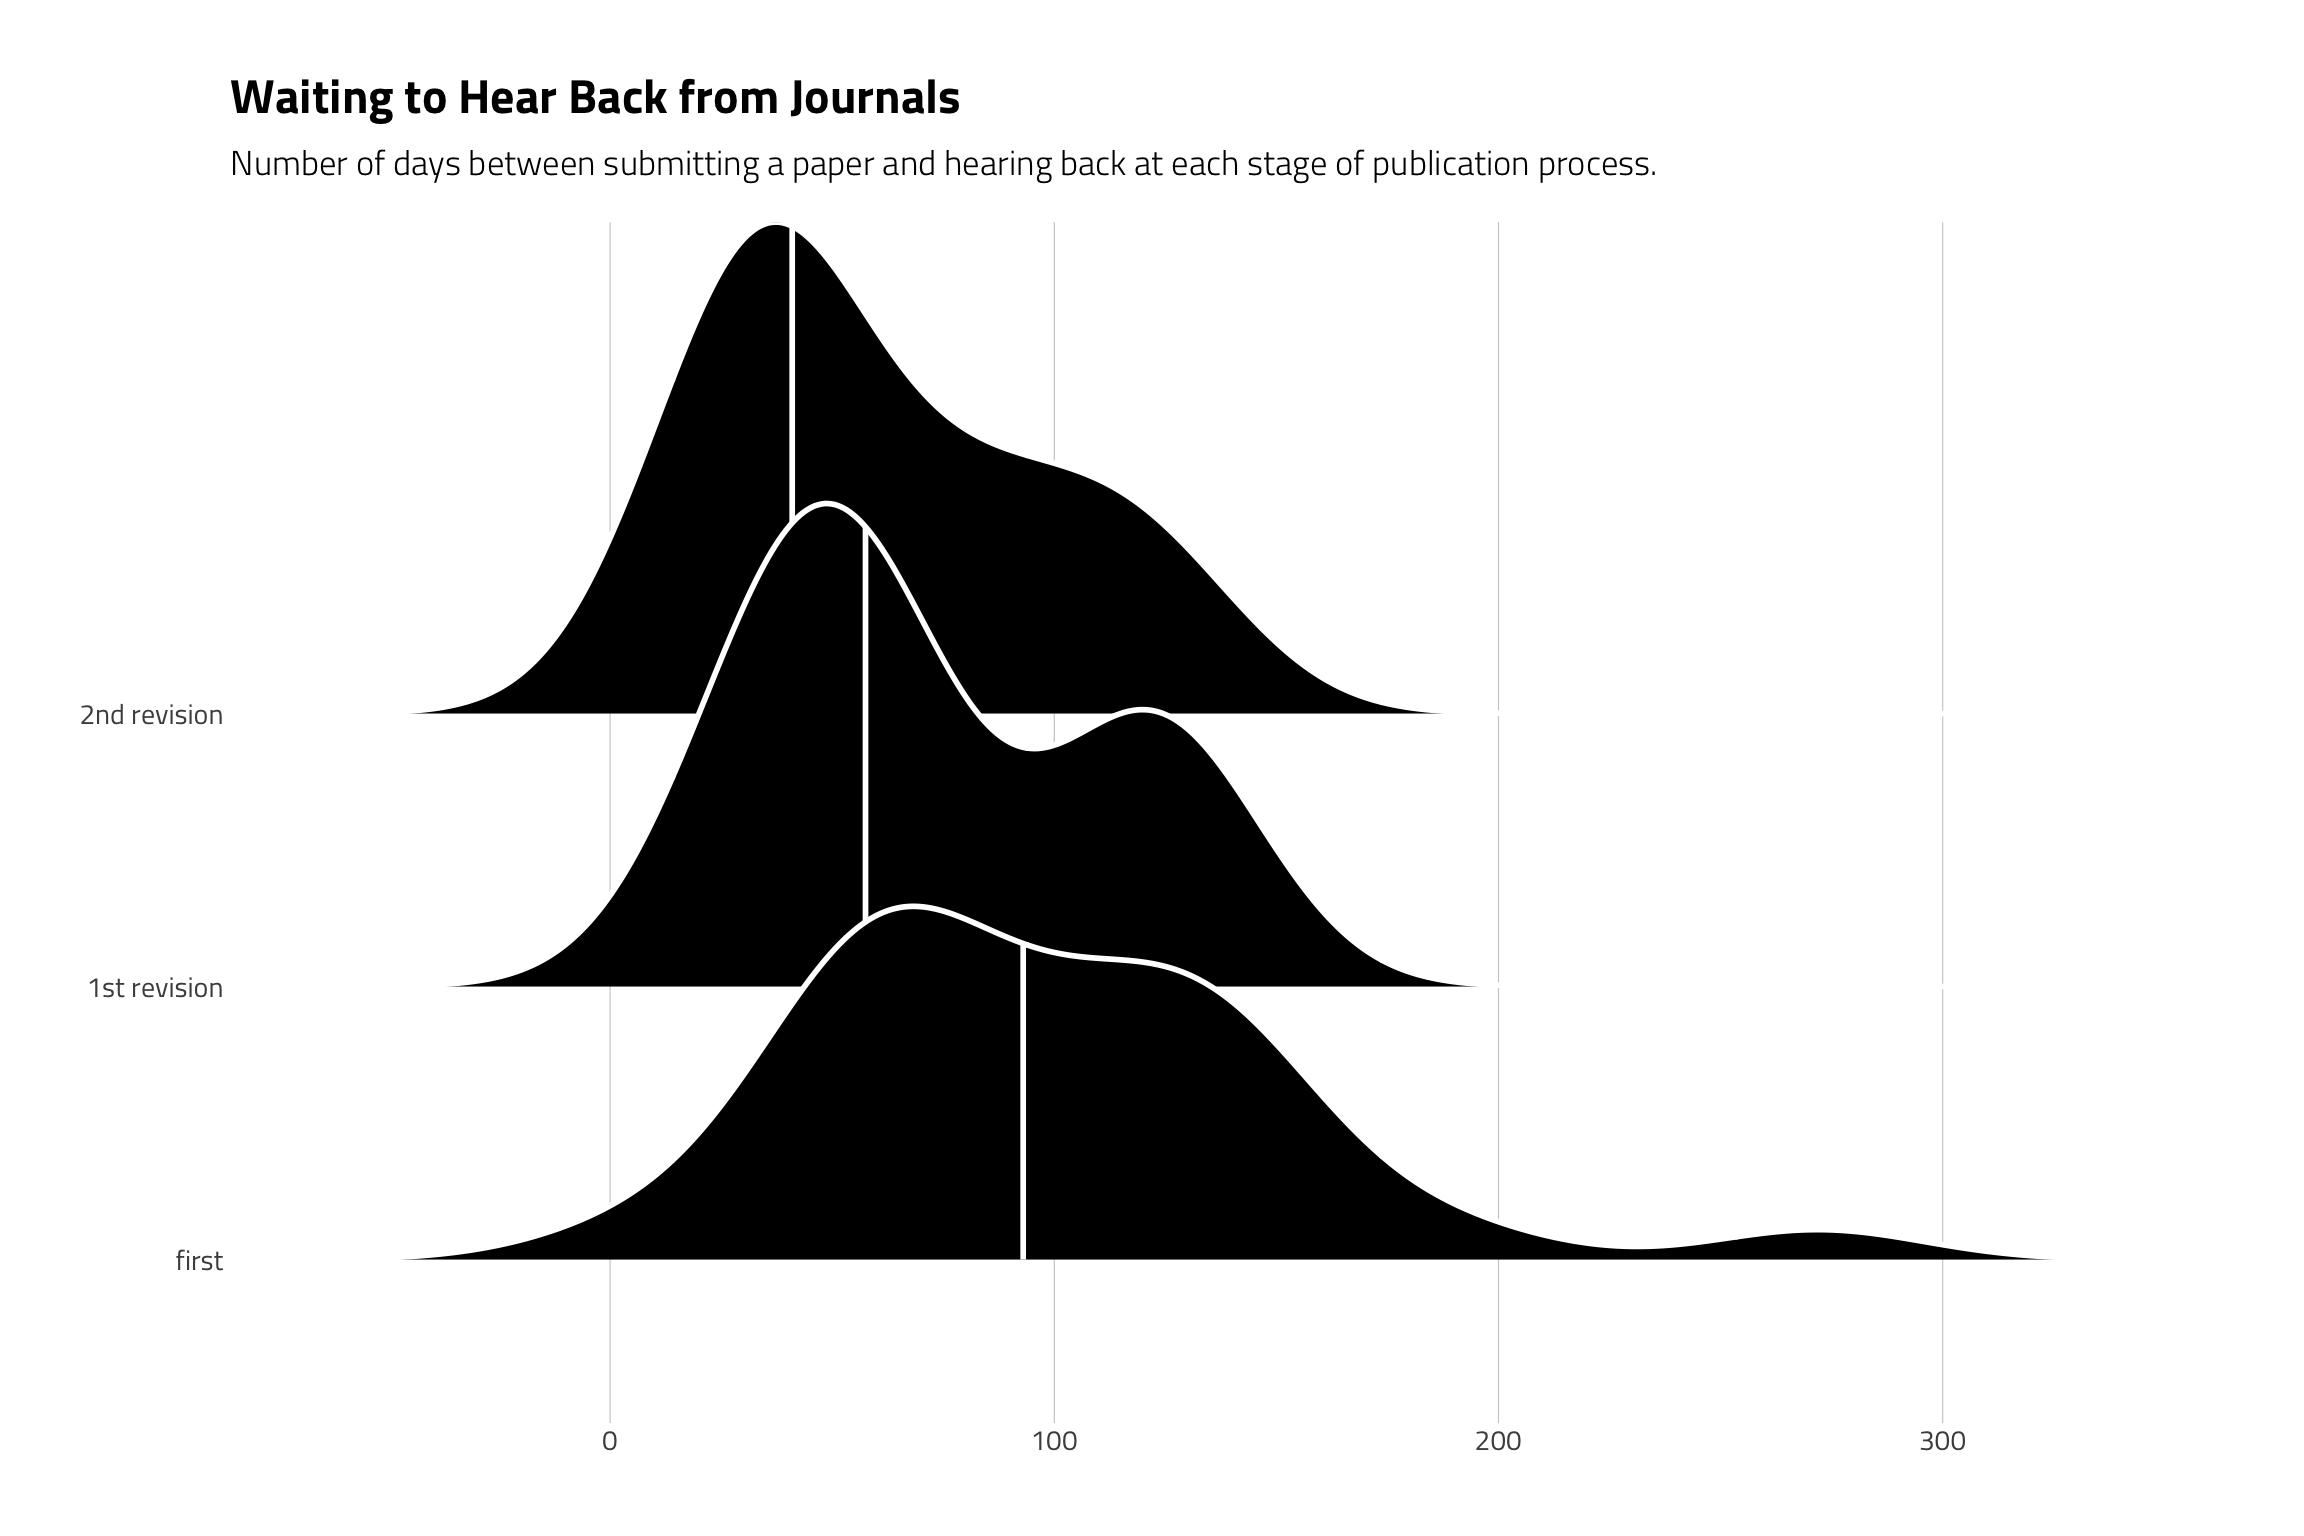
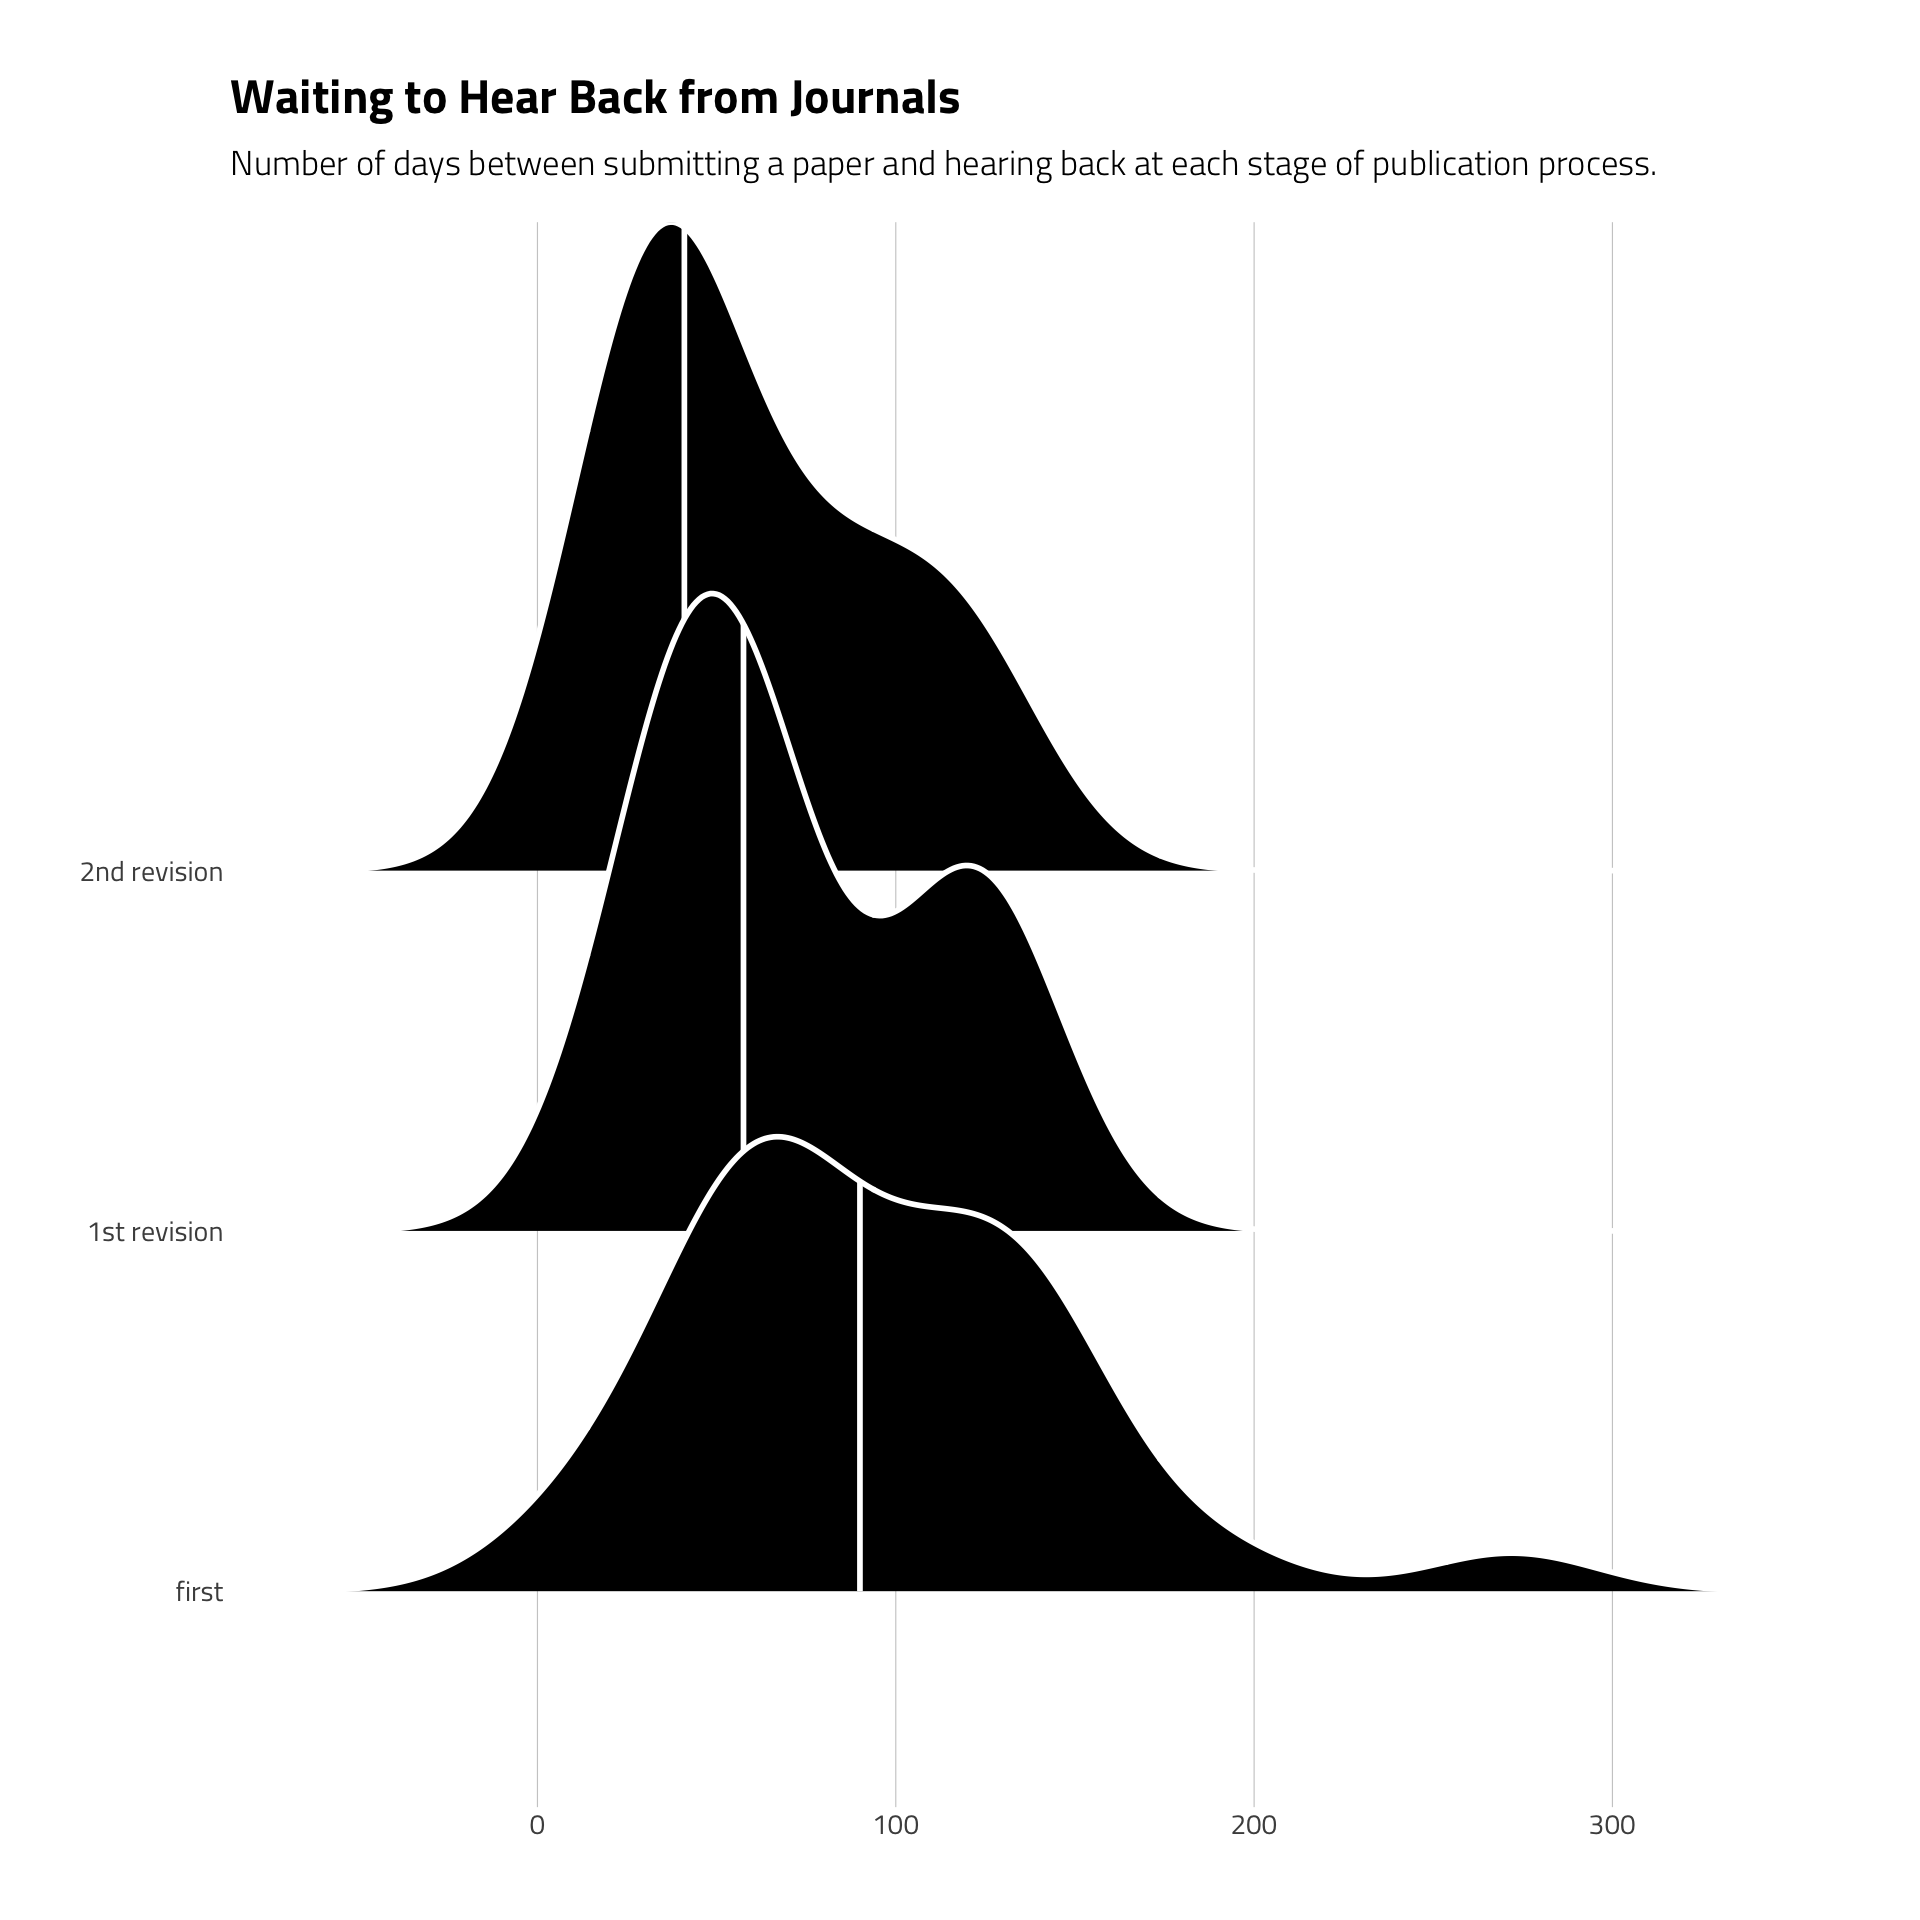
fixed my stuff

diff --git a/content/post/publishing-timeline/index.html b/content/post/publishing-timeline/index.html
@@ -7,9 +7,9 @@ authors:
 tags:
 categories: []
 date: "2020-05-10"
-lastmod: "18 May, 2020"
+lastmod: "19 May, 2020"
 featured: false
-draft: false
+draft: true
 ---
 
 <script src="/rmarkdown-libs/header-attrs/header-attrs.js"></script>
@@ -17,7 +17,7 @@ draft: false
 
 <p>For me, one of the many (so many) sources of stress in graduate school was the fear that I wouldn’t have something published by the time the job market came around. At least in my program, there was a strong sense that no publications effectively meant no chance at a job. Now that I’m on the other side of things I know that the process is much more “idiosyncratic” than that.<a href="#fn1" class="footnote-ref" id="fnref1"><sup>1</sup></a></p>
 <p>And yet the worry stands, especially since (overwhelmed, understaffed) academic journals can be very slow to respond to submissions. How long should you expect to wait before finding out if a paper has made it to the Revise &amp; Resubmit stage?</p>
-<p>I’ve been keeping track of my own paper submissions over time<a href="#fn2" class="footnote-ref" id="fnref2"><sup>2</sup></a> and thought it would be interesting to visualize the lifecycle of these papers in order to get a sense of the what prospective authors are facing.</p>
+<p>I’ve been keeping track of my own paper submissions over time<a href="#fn2" class="footnote-ref" id="fnref2"><sup>2</sup></a> and thought it would be interesting to visualize the lifecycle of these projects to get a sense of what the publication process looks like.</p>
 <pre class="r"><code>library(tidyverse)
 library(lubridate)
 library(hrbrthemes)
@@ -32,6 +32,7 @@ df = tribble(
   &#39;scarlet-letter&#39;, &#39;first&#39;, &#39;jop&#39;, ymd(&#39;2017-11-08&#39;), ymd(&#39;2018-03-02&#39;),
   &#39;india-police&#39;, &#39;first&#39;, &#39;world politics&#39;, ymd(&quot;2019-02-04&quot;), ymd(&quot;2019-06-19&quot;),
   &#39;road-warrior&#39;, &#39;first&#39;, &#39;jcr&#39;, ymd(&#39;2018-07-12&#39;), ymd(&#39;2018-12-10&#39;),
+  &#39;road-warrior&#39;, &#39;first&#39;, &#39;bjps&#39;, ymd(&quot;2020-04-30&quot;), ymd(&quot;2020-05-19&quot;),
   &#39;worlds-apart&#39;, &#39;first&#39;, &#39;jcr&#39;, ymd(&#39;2017-05-07&#39;), ymd(&#39;2017-07-21&#39;),
   &#39;worlds-apart&#39;, &#39;1st revision&#39;, &#39;jcr&#39;, ymd(&#39;2017-08-27&#39;), ymd(&#39;2017-12-30&#39;),
   &#39;worlds-apart&#39;, &#39;2nd revision&#39;, &#39;jcr&#39;, ymd(&#39;2018-01-21&#39;), ymd(&#39;2018-02-26&#39;),
@@ -82,14 +83,14 @@ df = tribble(
   labs(x=NULL, color = &#39;Submission round:&#39;,
        y=NULL, 
        title=&quot;Timeline of Journal Submissions&quot;, 
-       subtitle=&quot;Start date, decision date, and wait time (in months) for my papers. Note: there are def some missing submit attempts here.&quot;) +
+       subtitle=&quot;Start date, decision date, and wait time (in days) for my papers.&quot;) +
   theme_ipsum_tw() + 
-  ggrepel::geom_label_repel(nudge_y = -.5) + 
+  ggrepel::geom_label_repel(nudge_y = -.5, show.legend = FALSE) + 
   theme(legend.position = &#39;top&#39;) + 
   NULL</code></pre>
-<p><img src="/post/publishing-timeline/index_files/figure-html/dumbbell-1.png" width="1152" /></p>
+<p><img src="/post/publishing-timeline/index_files/figure-html/dumbbell-1.png" width="960" /></p>
 <p>The first, obvious barrier to publication is getting past reviewers in the initial submission stage and to an invitation to revise and resubmit (R&amp;R). One thing that jumps out is how much papers can vary in clearing the initial submission hurdle. Some papers can take a long time to find a home; <code>dyads</code> has been submitted to four different journals (actually, I think I’m missing a submission here) without landing an invitation to revise. Other papers, like <code>hierarchy-order</code>, landed an R&amp;R on the first try.</p>
-<p>Getting through that first barrier is crucial and the time to decision can vary a lot. In my experience, the median time to decision on a first submission is about 93 days, but can vary a lot: I’ve waited as long as 270 days (!!) for a response. R&amp;R’s are a good deal faster (median = 57 days) but also vary.</p>
+<p>Getting through that first barrier is crucial and the time to decision can vary a lot. In my experience, the median time to decision on a first submission is about 90 days, but can vary a lot: I’ve waited as long as 270 days (!!) for a response. R&amp;R’s are a good deal faster (median = 57.5) but also vary.</p>
 <pre class="r"><code>df %&gt;% 
   filter(type != &quot;3rd revision&quot;) %&gt;% # too few of these to bother
   ggplot(aes(y = type, x = duration)) + 
@@ -100,18 +101,18 @@ df = tribble(
   labs(x = NULL, y = NULL, 
        title = &quot;Waiting to Hear Back from Journals&quot;, 
        subtitle = &quot;Number of days between submitting a paper and hearing back at each stage of publication process.&quot;)</code></pre>
-<p><img src="/post/publishing-timeline/index_files/figure-html/ridges-1.png" width="1152" /></p>
-<p>Getting to an R&amp;R is only part of the battle: actually <em>revising</em> the paper to meet reviewer comments takes time, as does the time the journal and reviewers spend evaluating your revisions. With <code>worlds-apart</code>, my first publication, I got a quick R&amp;R within a month and a half of initial submission the summer before my (first) attempt at the job market. It took me about a month to do the revisions (this was August, before start of school, plenty of free time), but then I had to wait about <em>4 months</em> to get a decision back on that R&amp;R. I spent another 20 days or so turning that around, and then the final decision took about a month.</p>
+<p><img src="/post/publishing-timeline/index_files/figure-html/ridges-1.png" width="960" /></p>
+<p>Getting to an R&amp;R is only part of the battle: actually <em>revising</em> the paper to meet reviewer comments takes time, as does the time the journal and reviewers spend evaluating your revisions. With <code>worlds-apart</code>, my first publication, I got a rejection from the first journal I tried after 45 days. I spent about a month and a half making revisions based on reviewer comments, then sent it out again to a new journal where I got an R&amp;R after about another 45 days. It took me about a month to do the revisions (this was August, before start of school, plenty of free time), but then I had to wait about <em>4 months</em> to get a decision back on that R&amp;R. I spent another 20 days or so turning that around, and then the final decision took about a month.</p>
 </div>
 <div id="the-tradeoffs" class="section level2">
 <h2>The Tradeoffs</h2>
 <p>These timelines put pressure on graduate students that shapes their work in different ways. Working backwards from a job market that starts in September, I would have needed to submit <code>worlds-apart</code> in December of the prior year to have something accepted for publication. But note that this is assuming <em>the paper lands at the first place I sent it</em>. If I had sent it to a different journal first and failed there, I would have to add another 2 months or so to that timeline. And getting something R&amp;R’d in two tries is not easy! At some point, this means graduate students might need to be pushing papers out for submission earlier and earlier in graduate school, when most programs assume students are still just learning the ropes.</p>
-<p>The other big implication is that students face a big trade-off in terms of ambition of publication venue and having early publications. Do you send the paper to the top-3 journal with the miniscule acceptance rates and risk not having anything for the market, or do you send it to a lower-tier journal but miss out on a potential “big hit” that could have big implications for your career down the line?</p>
+<p>The other big implication is that students face a big trade-off in terms of ambition of publication venue and having pre-tenure publications. Do you send the paper to the top-3 journal with the miniscule acceptance rates and risk not having anything for the market, or do you send it to a lower-tier journal but miss out on a potential “big hit” that could have big implications for your career down the line?</p>
 <p>These pressures and trade-offs are obviously all starker for students who don’t come from wealthy families or who have families of their own they need to support. Without a TT job, workshopping a paper for years to boost its chances at a top hit is a tremendous privilege.</p>
 </div>
 <div id="conclusions" class="section level2">
 <h2>Conclusions</h2>
-<p>This is mostly a depressing post but that’s the nature of the topic. My main advice to graduate students on this front would be to pursue co-author opportunities early, with other graduate students or with faculty. The best strategy probably involves developing: a) your own, high-investment, shoot-for-the-stars projects related to your dissertation, and b) co-authored, lower-investment projects that are faster out the door. There are only so many hours in the day, though, and I recognize this is a tall order. The last thing I’ll say is that there’s no perfect paper, and I think there’s a risk in waiting too long to send things out.</p>
+<p>My main advice to graduate students on this front would be to pursue co-author opportunities early, with other graduate students or with faculty. The best strategy probably involves developing a mix of: a) your own, high-investment, shoot-for-the-stars projects related to your dissertation, and b) co-authored, lower-investment projects that are faster out the door. I know this is much easier said than done, especially for students with lots of teaching/family/work responsibilities. The last thing I’ll say is that there’s no perfect paper, and I think there’s a risk in waiting too long to send things out.</p>
 <p>But these are just my two cents.</p>
 </div>
 <div class="footnotes">

diff --git a/static/scss/myWidth.scss.css b/static/scss/myWidth.scss.css
@@ -1,0 +1,4 @@
+.article-container{
+    max-width: 200000px;
+    margin: 0
+}
